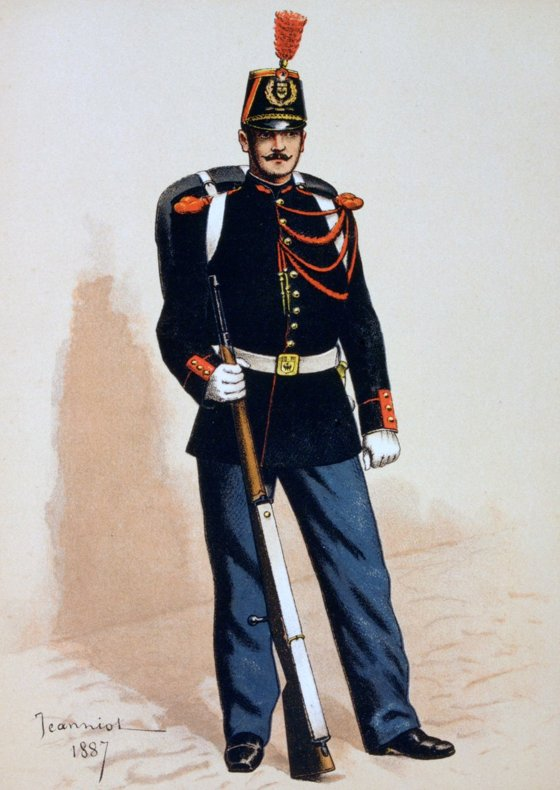
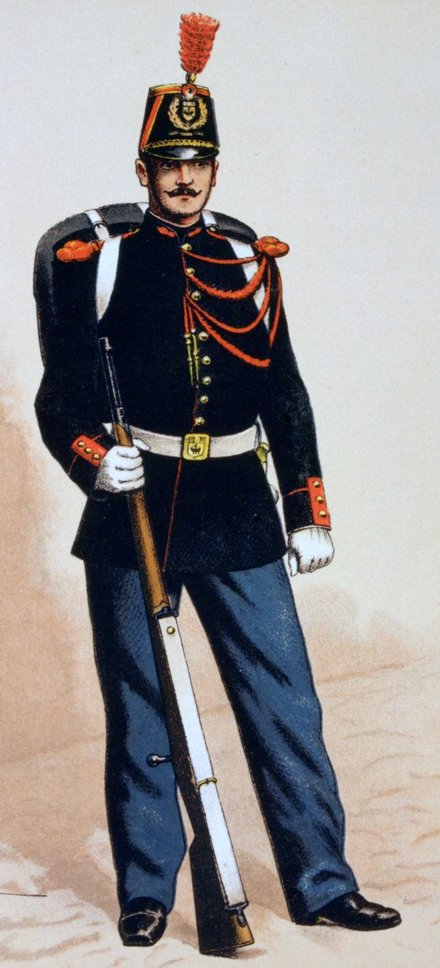
v2.24.1 : affiche de 1887 grandeur nature, largeur d'une porte
Claude-Session: https://claude.ai/code/session_01WYc8bcxVUTnPR8YQxCHawi

diff --git a/public/matrice.js b/public/matrice.js
@@ -522,12 +522,12 @@ function construireRue(A, T, L, scene) {
   porteMur(-1, FZ - 6.2, "POSTE DE POLICE"); porteMur(1, FZ - 8.6, "SAS");
   raccourci(L, scene, [.6, 2.5, 1.4], [-(PL - .2), 1.3, FZ - 6.2], { info: "🚓 Le poste de police : la porte est fermée pour l'instant… Envoie des photos de l'intérieur et je te l'ouvre !" });
   raccourci(L, scene, [.6, 2.5, 1.4], [PL - .2, 1.3, FZ - 8.6], { info: "🚪 Le sas : la porte est fermée pour l'instant… Envoie des photos de l'intérieur et je te l'ouvre !" });
-  // sur le mur de droite (face à la cour), sous vitrine : l'affiche du garde républicain de 1887 (Jeanniot)
+  // sur le mur de droite (face à la cour), sous vitrine : l'affiche du garde républicain de 1887 (Jeanniot), grandeur nature, de la largeur d'une porte
   const imgA = new Image(), tA = new THREE.Texture(imgA); tA.colorSpace = THREE.SRGBColorSpace; imgA.onload = () => { tA.needsUpdate = true; }; imgA.src = "images/affiche-1887.jpg";
-  const vit = new THREE.Group(); vit.position.set(PL - .02, 1.75, FZ - 10.2); vit.rotation.y = -Math.PI / 2; scene.add(vit);
-  const cadreV = new THREE.Mesh(new THREE.BoxGeometry(.98, 1.36, .08), A.mat({ color: 0x3a2a1c, roughness: .4 })); cadreV.position.z = .04; vit.add(cadreV);
-  const aff = new THREE.Mesh(new THREE.PlaneGeometry(.84, 1.2), new THREE.MeshStandardMaterial({ map: tA, roughness: .9 })); aff.position.z = .085; vit.add(aff);
-  const verreV = new THREE.Mesh(new THREE.PlaneGeometry(.88, 1.24), new THREE.MeshStandardMaterial({ color: 0xdfeaf0, transparent: true, opacity: .12, roughness: .05, metalness: .3 })); verreV.position.z = .1; vit.add(verreV);
+  const vit = new THREE.Group(); vit.position.set(PL - .02, 1.38, FZ - 10.2); vit.rotation.y = -Math.PI / 2; scene.add(vit);
+  const cadreV = new THREE.Mesh(new THREE.BoxGeometry(1.14, 2.36, .08), A.mat({ color: 0x3a2a1c, roughness: .4 })); cadreV.position.z = .04; vit.add(cadreV);
+  const aff = new THREE.Mesh(new THREE.PlaneGeometry(1.0, 2.2), new THREE.MeshStandardMaterial({ map: tA, roughness: .9 })); aff.position.z = .085; vit.add(aff);
+  const verreV = new THREE.Mesh(new THREE.PlaneGeometry(1.04, 2.24), new THREE.MeshStandardMaterial({ color: 0xdfeaf0, transparent: true, opacity: .12, roughness: .05, metalness: .3 })); verreV.position.z = .1; vit.add(verreV);
   // à droite, vers le fond : l'armoire rouge, la borne de la barrière et sa lisse blanche, posée en travers
   A.ajoute(new THREE.BoxGeometry(.3, 1.3, .5), A.mat({ color: 0xc8202a, roughness: .5 }), PL - .2, .79, FZ - 11.6);
   A.ajoute(new THREE.BoxGeometry(.32, 1.0, .32), A.mat({ color: 0xd8262e, roughness: .45 }), 1.55, .5, FZ - 12.2);

diff --git a/public/index.html b/public/index.html
@@ -2510,6 +2510,7 @@
 
   /* ===== Version de l'appli et nouveautés (la plus récente en premier) ===== */
   const VERSIONS = [
+    ["2.24.1", "11 octobre 2026", ["Sous le porche : l'affiche du garde républicain de 1887 est grandeur nature, de la taille d'une porte"]],
     ["2.24", "11 octobre 2026", ["Le passage sous le porche, d'après les photos : on y marche de la rue jusqu'à la cour d'honneur (battants noirs, trottoirs, barrière, panneau 10, plantes) ; à gauche la porte du poste de police, à droite celle du sas ; sous vitrine, l'affiche du garde républicain de 1887"]],
     ["2.23", "11 octobre 2026", ["Salle des fêtes : des tabourets au bar ; en s'approchant, « 🪑 S'asseoir au bar » : on s'assoit avec un verre à la main et on boit ; « 🧍 Se relever » pour repartir", "Matrice : en s'approchant de quelqu'un, « 💞 Danser un slow avec… » ; l'autre reçoit l'invitation et accepte ou refuse ; « 💔 Arrêter le slow » pour finir"]],
     ["2.22", "11 octobre 2026", ["Salle des fêtes : la musique s'enchaîne toute seule ; quand un titre se termine et que la file d'attente est vide, le DJ passe au titre suivant de la discothèque (et reprend au début une fois au bout)"]],

diff --git a/public/sw.js b/public/sw.js
@@ -1,7 +1,7 @@
 // Service worker : permet d'installer l'appli (Android, iPhone, PC) et de l'ouvrir sans réseau.
 // Les pages sont servies « réseau d'abord » (toujours la dernière version), les images « cache d'abord ».
 // Le courrier et le registre (/api/) ne sont jamais mis en cache.
-const CACHE = "caserne-nf-v78";
+const CACHE = "caserne-nf-v79";
 const SHELL = ["/", "/images/garde.jpg", "/images/plaque.jpg", "/manifest.webmanifest", "/icons/icon-192.png"];
 
 self.addEventListener("install", e => {
